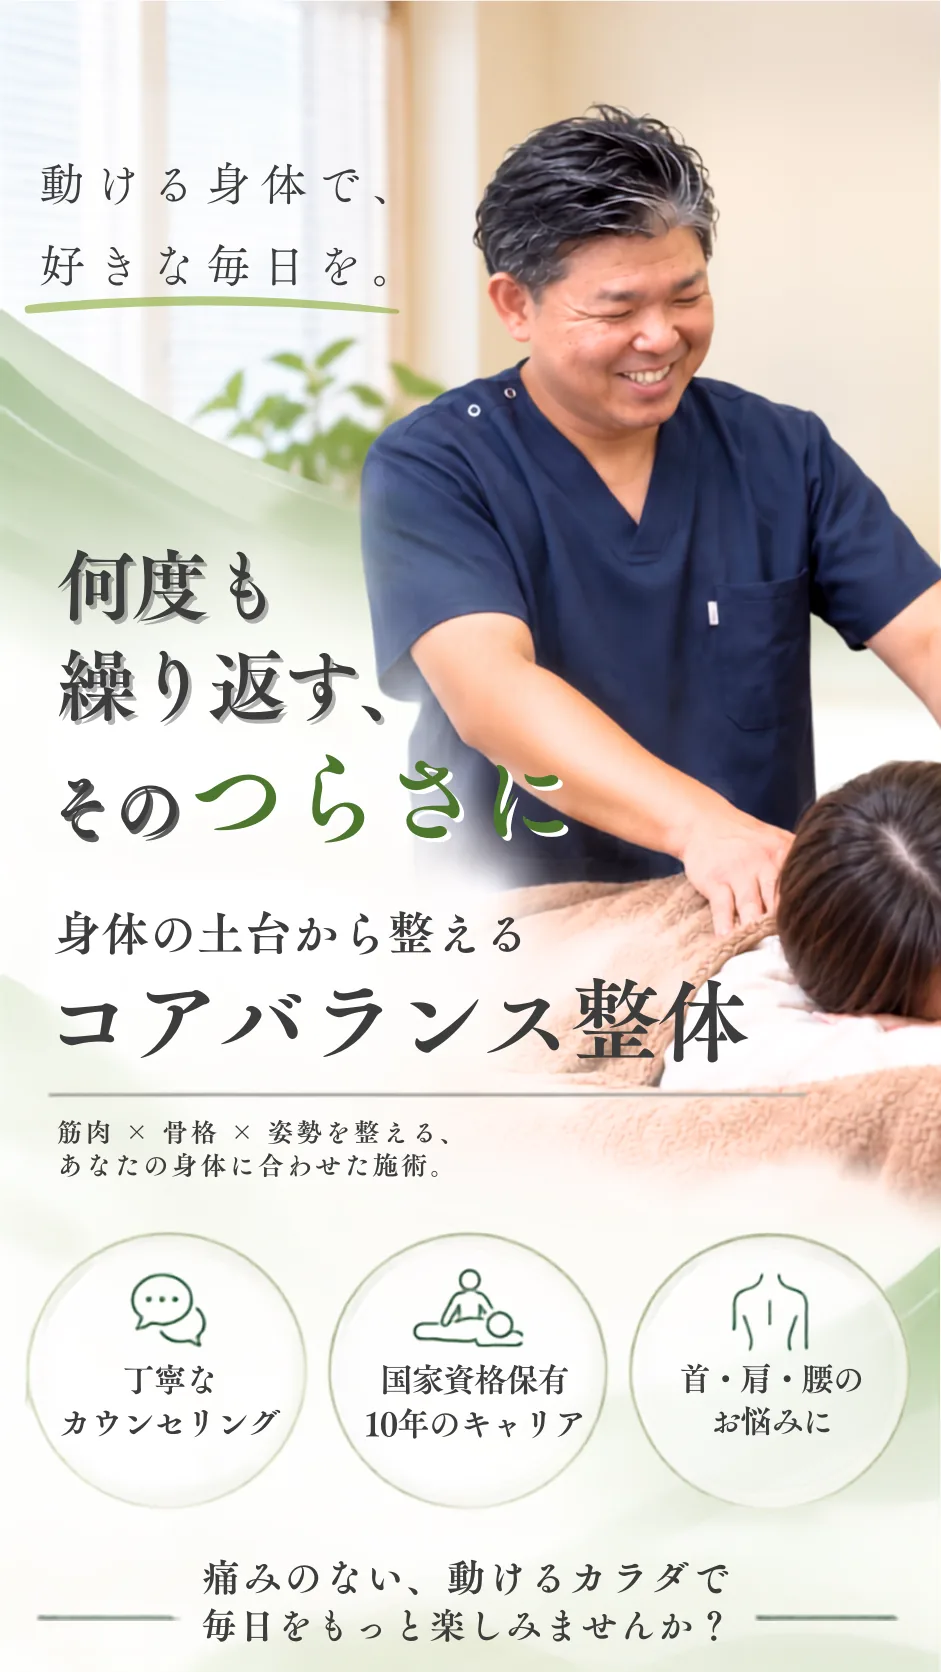
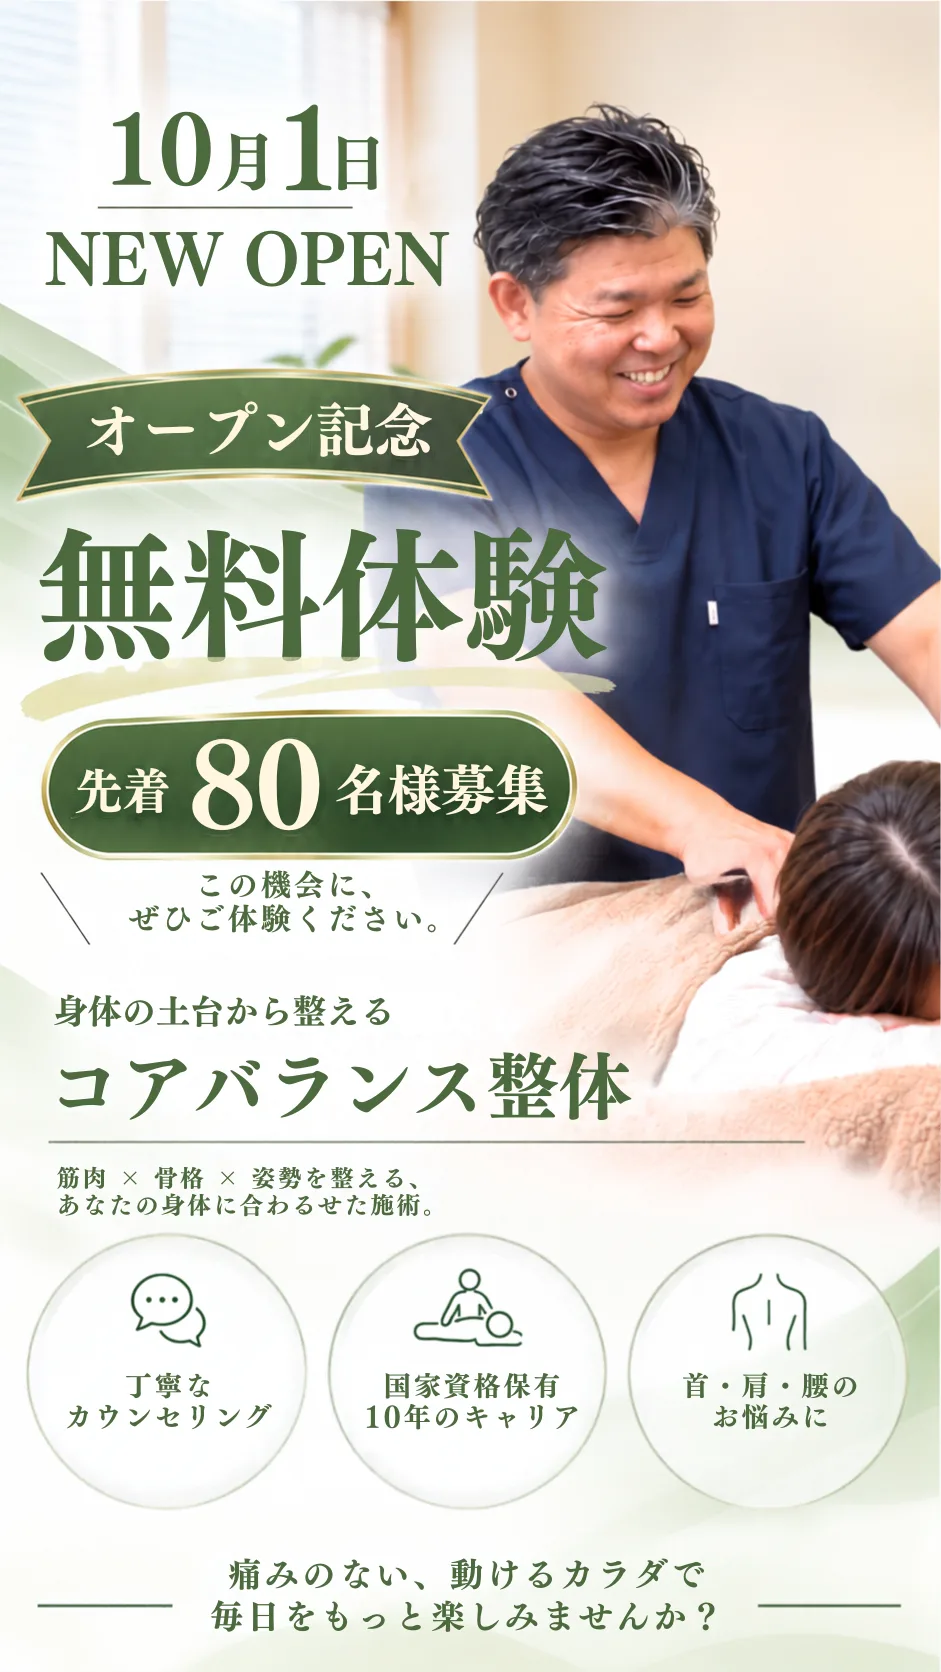
ヒーロー画像をオープン記念キャンペーン版に差し替え
クライアント支給の新ビジュアル（10/1 NEW OPEN・オープン記念 無料体験・
先着80名様募集）に変更。寸法は旧画像と同じ941x1672なので
width/heightの変更は不要だった。

- assets/images/hero-core-balance.webp を差し替え（97KB→111KB, webp q82）
- alt をキャンペーン内容に合わせて更新
- node tools/stamp.mjs 実行（?v=c7d48550 → ?v=ef62f847）

★キャンペーン終了時（2026-10-11）の注意★
この画像には「オープン記念・無料体験・先着80名様募集」が焼き込まれている。
HTMLのテキストを消すだけでは残るため、キャンペーン無しのヒーロー画像を
用意して差し替える必要がある。tajima2-hp/CLAUDE.md にも記載した。

diff --git a/index.html b/index.html
@@ -213,7 +213,7 @@
 
     <section class="hero-art" aria-label="コアバランス整体のご案内">
       <h1 class="sr-only">身体の土台から整えるコアバランス整体</h1>
-      <img src="./assets/images/hero-core-balance.webp?v=c7d48550" alt="動ける身体で好きな毎日を。身体の土台から整えるコアバランス整体" width="941" height="1672" fetchpriority="high">
+      <img src="./assets/images/hero-core-balance.webp?v=ef62f847" alt="2026年10月1日ニューオープン。オープン記念、無料体験を先着80名様募集。身体の土台から整えるコアバランス整体" width="941" height="1672" fetchpriority="high">
     </section>
 
     <!-- オープン記念CTA。**ヒーロー直下**に置いている。
